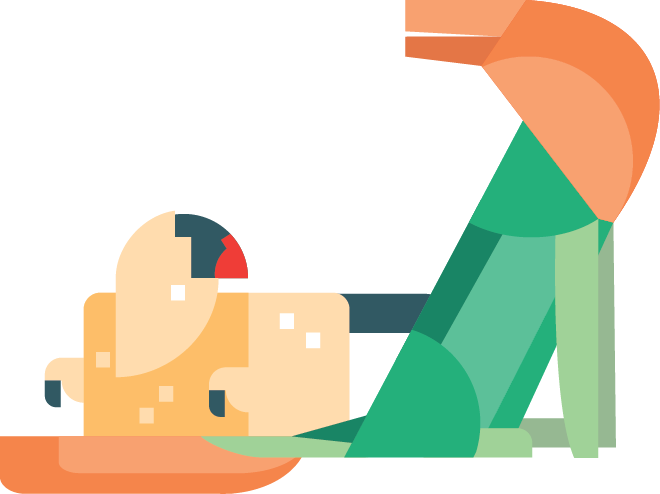
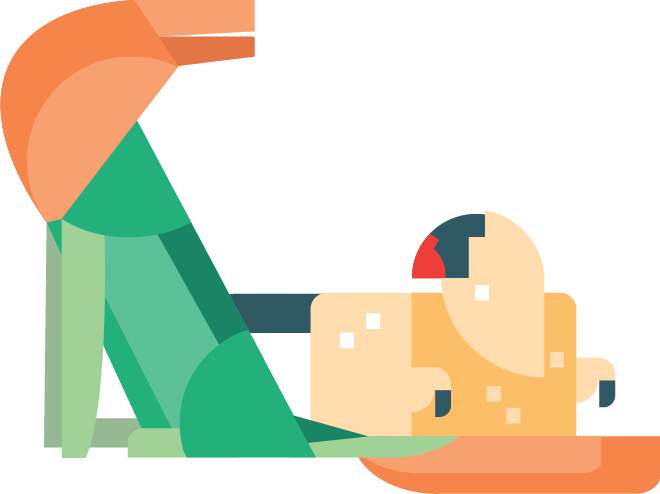
P2: Modified rightwon images, added new game over screen for the second game and adjusted the aesthetic of that screen

diff --git a/projects/project2/js/script.js b/projects/project2/js/script.js
@@ -197,8 +197,8 @@ function setup() {
      rightMenuInfo.push(new MenuInfo(i+1,rcse+rcs*i,"game",rightImage[i]));
   }
   //create the character objects
-  rightCharacter = new Character(rightCharacterSelect,rightImage,rightColor,rightLost);
-  leftCharacter = new Character(leftCharacterSelect,leftImage,leftColor,leftLost);
+  rightCharacter = new Character(rightCharacterSelect,rightImage,rightColor,rightLost,rightWon);
+  leftCharacter = new Character(leftCharacterSelect,leftImage,leftColor,leftLost,leftWon);
   //this sets the initial velocity for the ball
   ball.setup();
   //this tell the HorizontalMenu object which array to take its information from
@@ -240,8 +240,12 @@ function draw() {
     displayCharacterSelect();
     break;
 
-    case "GAME OVER":
-    displayGameOver();
+    case "GAME LOST":
+    displayGameLost();
+    break;
+
+    case "GAME WON":
+    displayGameWon();
     break;
   }
 }
@@ -288,6 +292,8 @@ function displayTitle() {
 //
 // This function displays the actual game
 function displayGame1() {
+  leftScoreboard.setText("escaped from");
+  rightScoreboard.setText("escaped from");
   leftPaddle.handleInput();
   rightPaddle.handleInput();
 
@@ -338,7 +344,7 @@ function displayGame1() {
   // this means the game is over - this checks if the game is over
   // and changes the state accordingly
   if (gameOver()) {
-    state = "GAME OVER";
+    state = "GAME LOST";
   }
 }
 
@@ -346,6 +352,8 @@ function displayGame1() {
 //
 // This function displays the actual game
 function displayGame2() {
+  leftScoreboard.setText("penned by");
+  rightScoreboard.setText("penned by");
   leftPaddle.handleInput();
   rightPaddle.handleInput();
 
@@ -395,7 +403,7 @@ function displayGame2() {
   // this means the game is over - this checks if the game is over
   // and changes the state accordingly
   if (gameOver()) {
-    state = "GAME OVER";
+    state = "GAME WON";
   }
 }
 
@@ -437,10 +445,10 @@ function displayCharacterSelect() {
   }
 }
 
-// displayGameOver()
+// displayGameLost()
 //
 // Displays game over text
-function displayGameOver() {
+function displayGameLost() {
   push();
   imageMode(CENTER);
   textAlign(CENTER,CENTER);
@@ -480,6 +488,48 @@ function displayGameOver() {
   }
 }
 
+// displayGameWon()
+//
+// Displays game over text
+function displayGameWon() {
+  push();
+  imageMode(CENTER);
+  textAlign(CENTER,CENTER);
+  textFont("Agency FB");
+  textSize(36);
+  fill(255);
+  stroke(255);
+  // this text indicates which player lost
+  if (leftPaddle.score > rightPaddle.score){
+    text("LEFT PLAYER WON!",width*0.4,height*0.35);
+    push();
+    translate(width/2,height/2);
+    scale(0.75,0.75);
+    image(leftCharacter.won,0,0);
+    pop();
+    textSize(24);
+    text("PRESS ENTER TO RETURN TO TITLE", width*0.65, height*0.9);
+  }
+  else {
+    text("RIGHT PLAYER WON!", width*0.6, height*0.35);
+    push();
+    translate(width/2,height/2);
+    scale(0.75,0.75);
+    image(rightCharacter.won,0,0);
+    pop();
+    textSize(24);
+    text("PRESS ENTER TO RETURN TO TITLE", width*0.35, height*0.9);
+  }
+  pop();
+  // Check whether the spacebar was pressed to restart the game
+  if (keyIsDown(ENTER)) {
+    // ... if it was, change the state to "TITLE" so the switch statement in draw()
+    // will display the title instead
+    state = "TITLE";
+    leftPaddle.resetScore();
+    rightPaddle.resetScore();
+  }
+}
 /////// END NEW //////
 
 /////// NEW ///////

diff --git a/projects/project2/js/Scoreboard.js b/projects/project2/js/Scoreboard.js
@@ -15,6 +15,7 @@ function Scoreboard (x,y,size,name,paddle){
   this.score;
   this.xCenter = this.x + this.size/2;
   this.character;
+  this.text;
 }
 
 //setup
@@ -22,6 +23,12 @@ function Scoreboard (x,y,size,name,paddle){
 //this tells the scoreboard which character to get information from
 Scoreboard.prototype.setup = function(character){
   this.character = character;
+}
+
+//setText
+//this sets the Scoreboard text to be appropriate for the game currently played
+Scoreboard.prototype.setText = function(text){
+  this.text = text;
 }
 
 //display
@@ -39,7 +46,7 @@ Scoreboard.prototype.display = function() {
   //this displays the player name at the bottom of the scoreboard
   text(this.name, this.xCenter, this.y + this.size*0.85);
   // this displays "have escaped from" right above the player's name
-  text("escaped from", this.xCenter, this.y + this.size*0.6);
+  text(this.text, this.xCenter, this.y + this.size*0.6);
   //
   textSize(24);
   // this displays a darker box behind the score

diff --git a/projects/project2/js/Character.js b/projects/project2/js/Character.js
@@ -3,20 +3,23 @@
 //A class that stores information for the paddle character
 //
 //Character constructor
-function Character(menu,imageArray,colorArray,endImage){
+function Character(menu,imageArray,colorArray,lostImage,wonImage){
   this.menu = menu;
   this.imageArray = imageArray;
   this.colorArray = colorArray;
-  this.endImage = endImage;
+  this.lostImage = lostImage;
+  this.wonImage = wonImage;
   this.state = 0;
   this.image = this.imageArray[0];
   this.color = this.colorArray[0];
-  this.lost = this.endImage[0];
+  this.lost = this.lostImage[0];
+  this.won = this.wonImage[0];
 }
 
 Character.prototype.characterPicked = function(){
   this.state = this.menu.state;
   this.image = this.imageArray[this.menu.state];
   this.color = this.colorArray[this.menu.state];
-  this.lost = this.endImage[this.menu.state];
+  this.lost = this.lostImage[this.menu.state];
+  this.won = this.wonImage[this.menu.state];
 }
